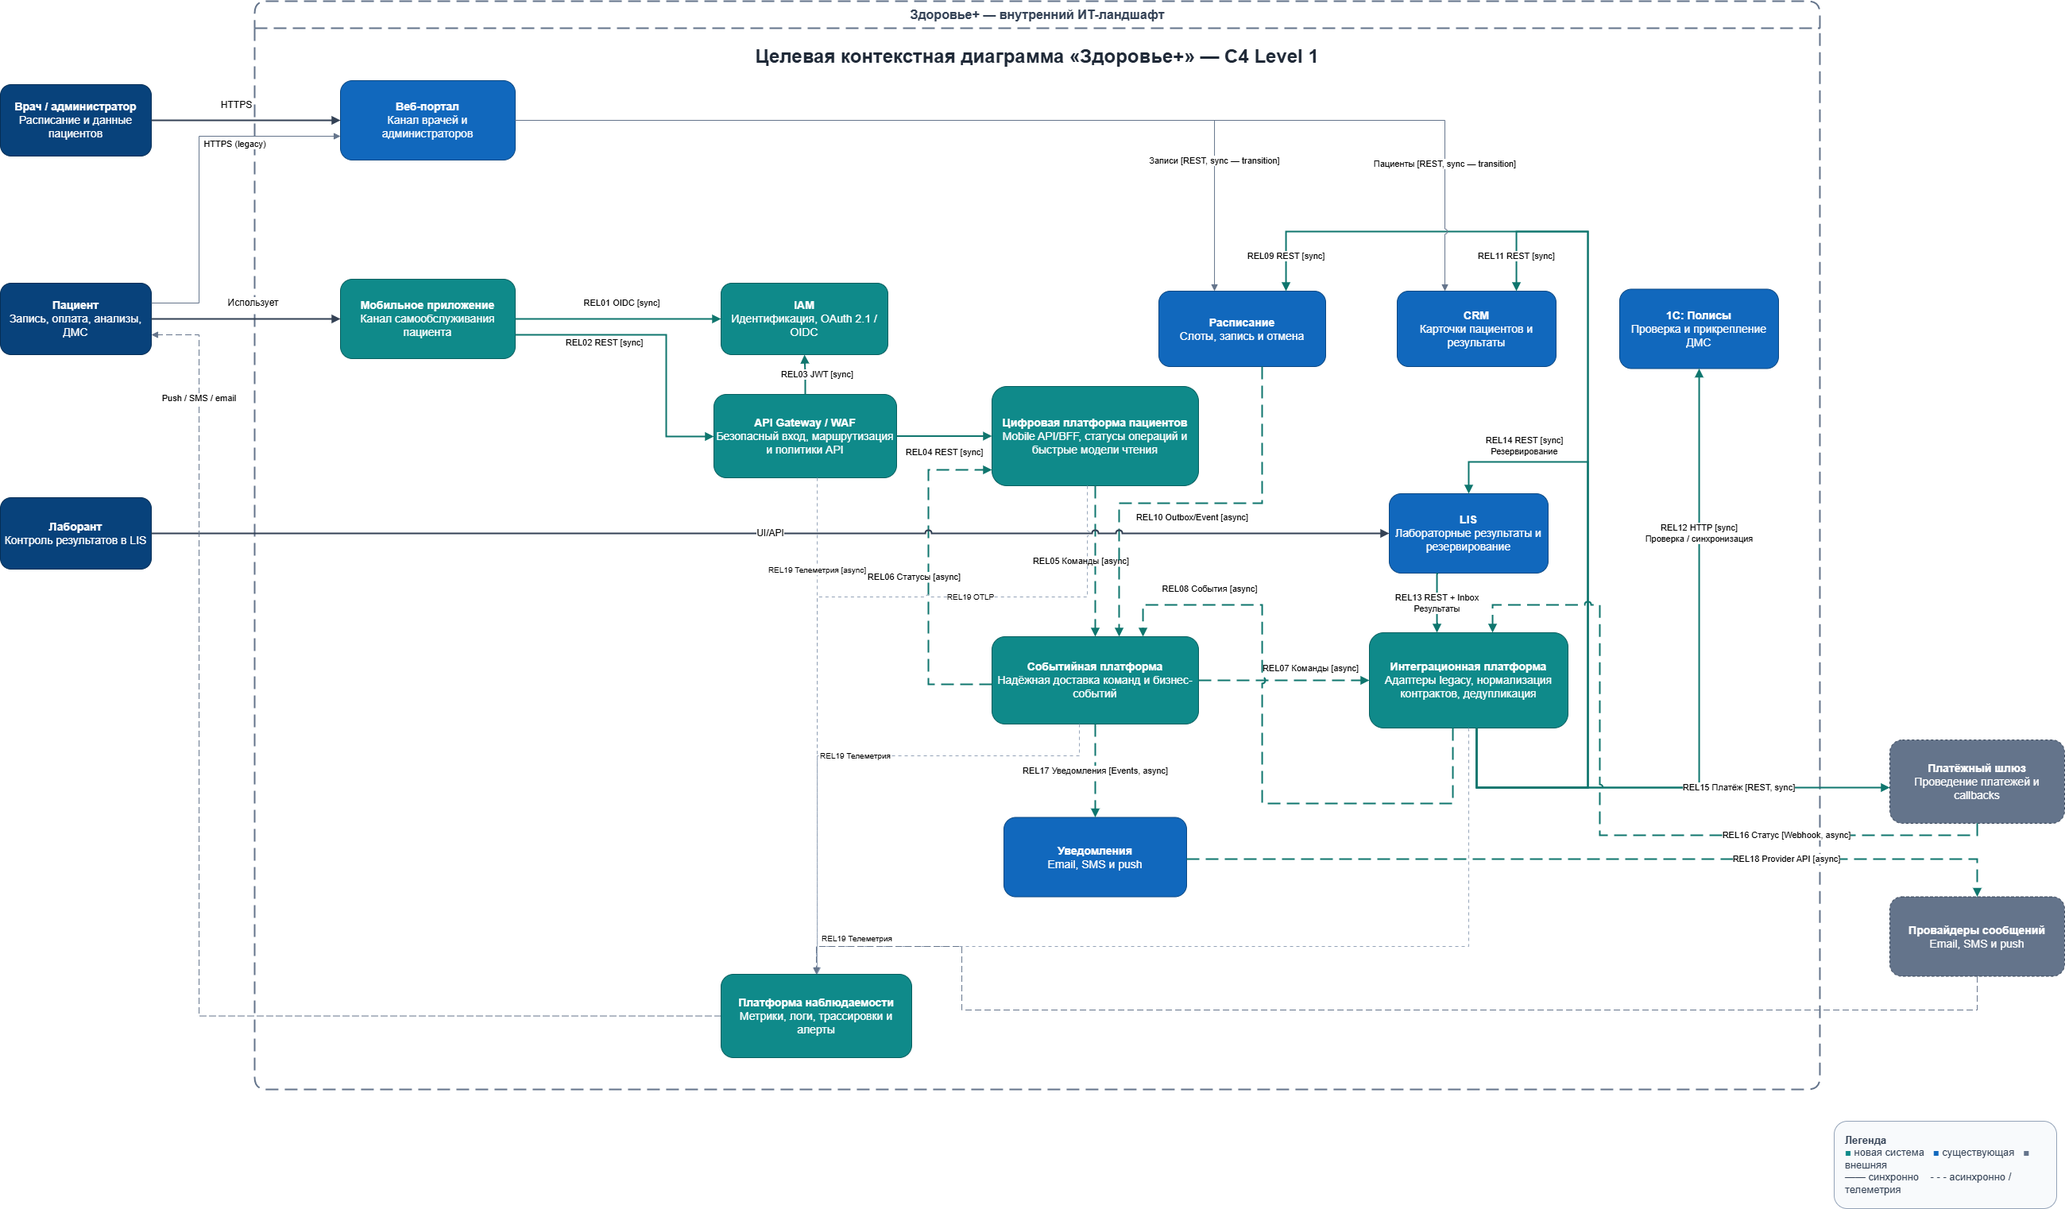
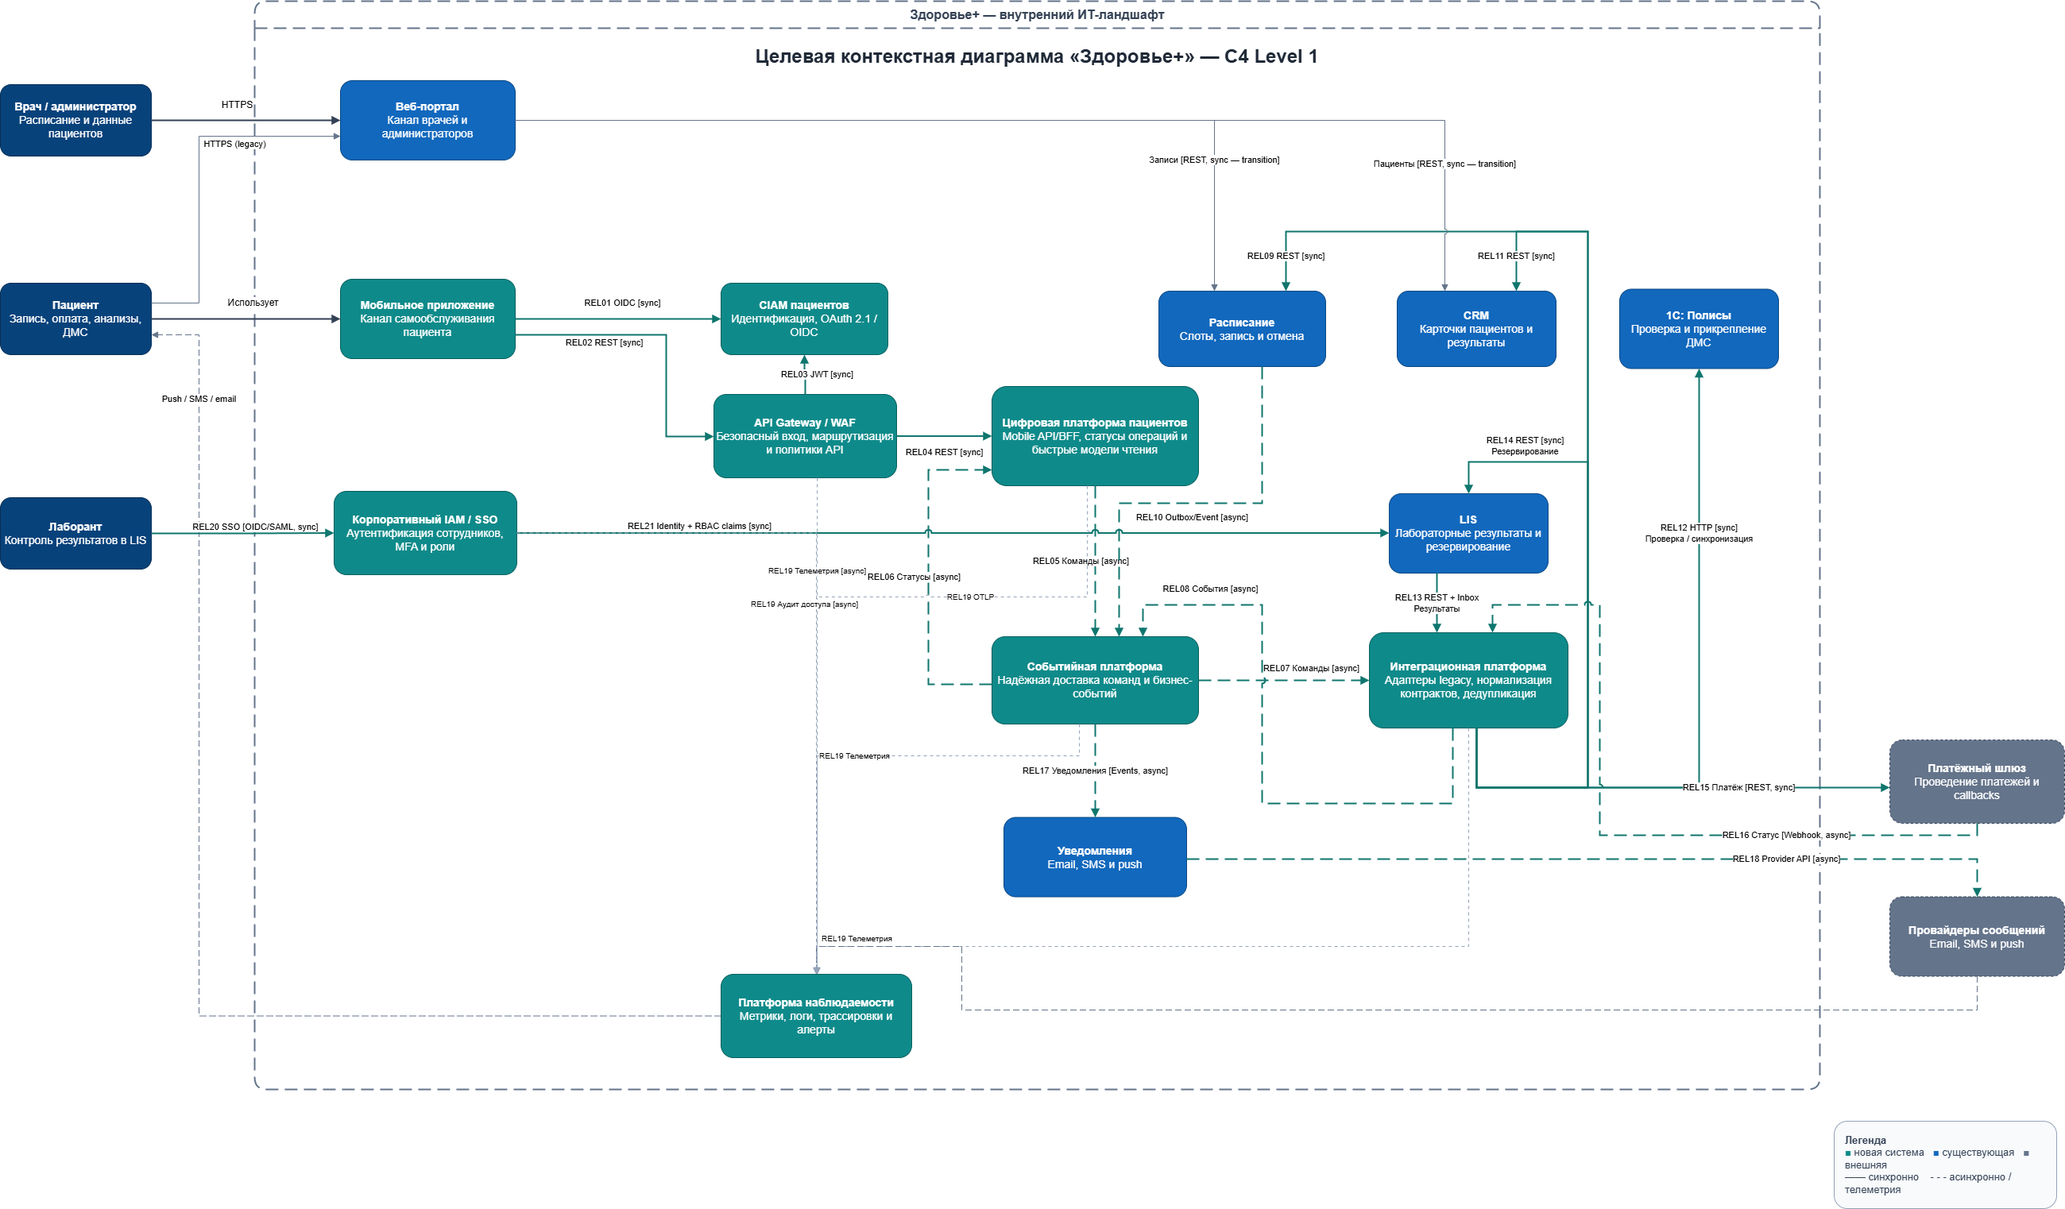
Task 2

diff --git a/Task2/README.md b/Task2/README.md
@@ -31,12 +31,13 @@
 | ID | Система | Ответственность | Закрываемые проблемы |
 |---|---|---|---|
 | `ARCH-S-001` | Мобильное приложение | Самообслуживание пациента: запись, оплата, анализы, ДМС и уведомления | Новый цифровой канал |
-| `ARCH-S-002` | IAM | Аутентификация и выдача токенов по OAuth 2.1 / OIDC | `ARCH-I-011` |
+| `ARCH-S-002` | CIAM пациентов | Аутентификация пациентов и выдача токенов по OAuth 2.1 / OIDC | `ARCH-I-011` |
 | `ARCH-S-003` | API Gateway / WAF | Единый защищённый вход, проверка токена, маршрутизация и политики API | `ARCH-I-001`, `ARCH-I-004`, `ARCH-I-011` |
 | `ARCH-S-004` | Цифровая платформа пациентов | Mobile API/BFF, принятие команд, быстрые модели чтения и статусы сквозных операций | `ARCH-I-001`, `ARCH-I-003`, `ARCH-I-005` |
 | `ARCH-S-005` | Интеграционная платформа | Адаптеры legacy, нормализация контрактов, дедупликация и изоляция внешних сбоев | `ARCH-I-002`, `ARCH-I-006`, `ARCH-I-007`, `ARCH-I-010` |
 | `ARCH-S-006` | Событийная платформа | Надёжная доставка команд и бизнес-событий, буферизация пиков и развязка потребителей | `ARCH-I-002`, `ARCH-I-003`, `ARCH-I-007`, `ARCH-I-008` |
 | `ARCH-S-007` | Платформа наблюдаемости | Централизованные метрики, логи, distributed tracing и алерты | `ARCH-I-009` |
+| `ARCH-S-008` | Корпоративный IAM / SSO | Единая аутентификация сотрудников, жизненный цикл учётных записей и передача ролей для авторизации в LIS | `ARCH-I-011` |
 
 ## Обоснование новых интеграций
 
@@ -44,9 +45,9 @@
 
 | ID | Интеграция и данные | Тип взаимодействия | Паттерн / архитектурный стиль | Почему выбран | Трассировка |
 |---|---|---|---|---|---|
-| `ARCH-REL-001` | Мобильное приложение → IAM: вход пользователя и обновление токена | Синхронно, OIDC/OAuth 2.1 Authorization Code + PKCE | Federated Identity, Token-based Authentication | Отделяет управление учётными данными от бизнес-API; PKCE защищает публичный мобильный клиент, который не может безопасно хранить client secret | `ARCH-I-011` |
+| `ARCH-REL-001` | Мобильное приложение → CIAM пациентов: вход пользователя и обновление токена | Синхронно, OIDC/OAuth 2.1 Authorization Code + PKCE | Federated Identity, Token-based Authentication | Отделяет управление учётными данными от бизнес-API; PKCE защищает публичный мобильный клиент, который не может безопасно хранить client secret | `ARCH-I-011` |
 | `ARCH-REL-002` | Мобильное приложение → API Gateway/WAF: запросы записи, оплаты, анализов и ДМС | Синхронно, HTTPS/REST | API Gateway | Даёт мобильному каналу единую точку входа без прямого доступа к CRM, 1С, LIS и расписанию | `ARCH-I-001`, `ARCH-I-011` |
-| `ARCH-REL-003` | API Gateway/WAF → IAM: проверка access token | Синхронно по JWT/JWKS с локальным кешированием ключей | Token Validation, Cache-Aside | Локальная криптографическая проверка JWT не создаёт сетевой вызов к IAM на каждый запрос и снижает риск нового узкого места | `ARCH-I-002`, `ARCH-I-005`, `ARCH-I-011` |
+| `ARCH-REL-003` | API Gateway/WAF → CIAM пациентов: проверка access token | Синхронно по JWT/JWKS с локальным кешированием ключей | Token Validation, Cache-Aside | Локальная криптографическая проверка JWT не создаёт сетевой вызов к CIAM на каждый запрос и снижает риск нового узкого места | `ARCH-I-002`, `ARCH-I-005`, `ARCH-I-011` |
 | `ARCH-REL-004` | API Gateway/WAF → цифровая платформа пациентов: версионированный Mobile API | Синхронно, HTTPS/REST | Backend for Frontend, API-led Integration | BFF возвращает данные в форме мобильного UI и не раскрывает внутренние контракты backend-систем | `ARCH-I-001`, `ARCH-I-010` |
 | `ARCH-REL-005` | Цифровая платформа → событийная платформа: команды записи, оплаты, проверки полиса | Асинхронно, сообщения | Event-Driven Architecture, Asynchronous Command | Быстро подтверждает принятие длительной операции, буферизует пики и не удерживает мобильное соединение во время вызовов legacy | `ARCH-I-002`, `ARCH-I-003`, `ARCH-I-005` |
 | `ARCH-REL-006` | Событийная платформа → цифровая платформа: статусы операций и обновление проекций | Асинхронно, события | Event Notification, CQRS / Materialized View | Пользователь читает подготовленное состояние без синхронного fan-out по legacy-системам; eventual consistency явно выражена статусом операции | `ARCH-I-001`, `ARCH-I-003`, `ARCH-I-005` |
@@ -62,7 +63,9 @@
 | `ARCH-REL-016` | Платёжный шлюз → интеграционная платформа: финальный статус платежа | Асинхронно, подписанный webhook | Asynchronous Callback, Idempotent Consumer | Отделяет технический таймаут исходного REST-вызова от фактического финансового результата и поддерживает сверку статуса | `ARCH-I-002`, `ARCH-I-003` |
 | `ARCH-REL-017` | Событийная платформа → Уведомления: запись, платёж, готовность анализа | Асинхронно, события | Publish/Subscribe | Бизнес-операция не ждёт внешних email/SMS/push-провайдеров; несколько каналов могут независимо подписываться на событие | `ARCH-I-002`, `ARCH-I-008` |
 | `ARCH-REL-018` | Уведомления → внешние провайдеры сообщений | Асинхронная обработка через API провайдеров | Store and Forward, Retryable Delivery | Временная недоступность конкретного провайдера не должна терять уведомление или блокировать основной сценарий | `ARCH-I-002`, `ARCH-I-008` |
-| `ARCH-REL-019` | API Gateway, цифровая, интеграционная и событийная платформы → платформа наблюдаемости | Асинхронная телеметрия, OpenTelemetry/OTLP | Centralized Observability, Correlation ID | Общий trace/correlation ID связывает мобильный запрос, сообщения и legacy-вызовы и сокращает поиск причины сбоя | `ARCH-I-009` |
+| `ARCH-REL-019` | CIAM, корпоративный IAM/SSO, API Gateway, цифровая, интеграционная и событийная платформы → платформа наблюдаемости | Асинхронная телеметрия и аудит, OpenTelemetry/OTLP | Centralized Observability, Correlation ID, Security Audit Trail | Общий trace/correlation ID связывает мобильный запрос, сообщения и legacy-вызовы, а события IAM обеспечивают аудит входов и изменений доступа | `ARCH-I-009`, `ARCH-I-011` |
+| `ARCH-REL-020` | Лаборант → корпоративный IAM/SSO: вход сотрудника | Синхронно, OIDC или SAML 2.0 через корпоративную сеть | Enterprise SSO, Federated Identity | Убирает локальные пароли LIS, позволяет централизованно блокировать уволенных сотрудников и применять MFA для доступа к медицинским данным | `ARCH-I-011` |
+| `ARCH-REL-021` | Корпоративный IAM/SSO → LIS: подтверждённая личность и роли лаборанта | Синхронно, OIDC claims или SAML assertion | RBAC, Least Privilege, Policy Enforcement Point | LIS авторизует просмотр результатов по корпоративным ролям; IAM подтверждает личность, а решение о доступе к конкретным данным остаётся в LIS и журналируется | `ARCH-I-011` |
 
 ## Как комбинируются архитектурные стили
 
@@ -71,6 +74,7 @@
 3. **Anti-Corruption Layer** находится на границе с каждой legacy- или внешней системой и преобразует её контракт в каноническую модель платформы.
 4. **CQRS на уровне интеграции** разделяет пользовательское чтение и выполнение команд: чтение обслуживается из проекций, а источниками истины остаются расписание, CRM, LIS и 1С.
 5. **Strangler Fig** обеспечивает переход: веб-портал продолжает работать, а новые пациентские сценарии постепенно переводятся в новый API-контур.
+6. **Разделение Customer IAM и Workforce IAM** изолирует публичные учётные записи пациентов от корпоративных идентичностей сотрудников. Лаборант проходит SSO, а LIS применяет RBAC и принцип наименьших привилегий по полученным claims.
 
 ## Связь с архитектурными драйверами
 
@@ -81,7 +85,7 @@
 | До 50 000 пользователей | Горизонтальное масштабирование Gateway, BFF и обработчиков; чтение из проекций вместо fan-out |
 | p99 < 1 с | Быстрые синхронные чтения и ответ о принятии длительной команды; завершение операции асинхронно |
 | Доступность 99,95% | Изоляция legacy-отказов, асинхронная доставка, локальные проекции и отсутствие прямых вызовов из приложения |
-| Безопасность медицинских данных | OIDC/OAuth 2.1, WAF, проверка токена на границе и отсутствие прямого доступа к внутренним системам |
+| Безопасность медицинских данных | OIDC/OAuth 2.1 для пациентов, корпоративный SSO и RBAC для сотрудников, WAF, проверка токенов и отсутствие прямого доступа мобильного клиента к внутренним системам |
 | Сопровождаемость | Версионируемые контракты, адаптеры и централизованная наблюдаемость |
 
 Количество пользователей само по себе не определяет требуемую мощность. Перед запуском необходимо зафиксировать профиль RPS, долю чтений и команд, размеры сообщений и SLO завершения асинхронных операций, а затем подтвердить их нагрузочными и failover-тестами.
